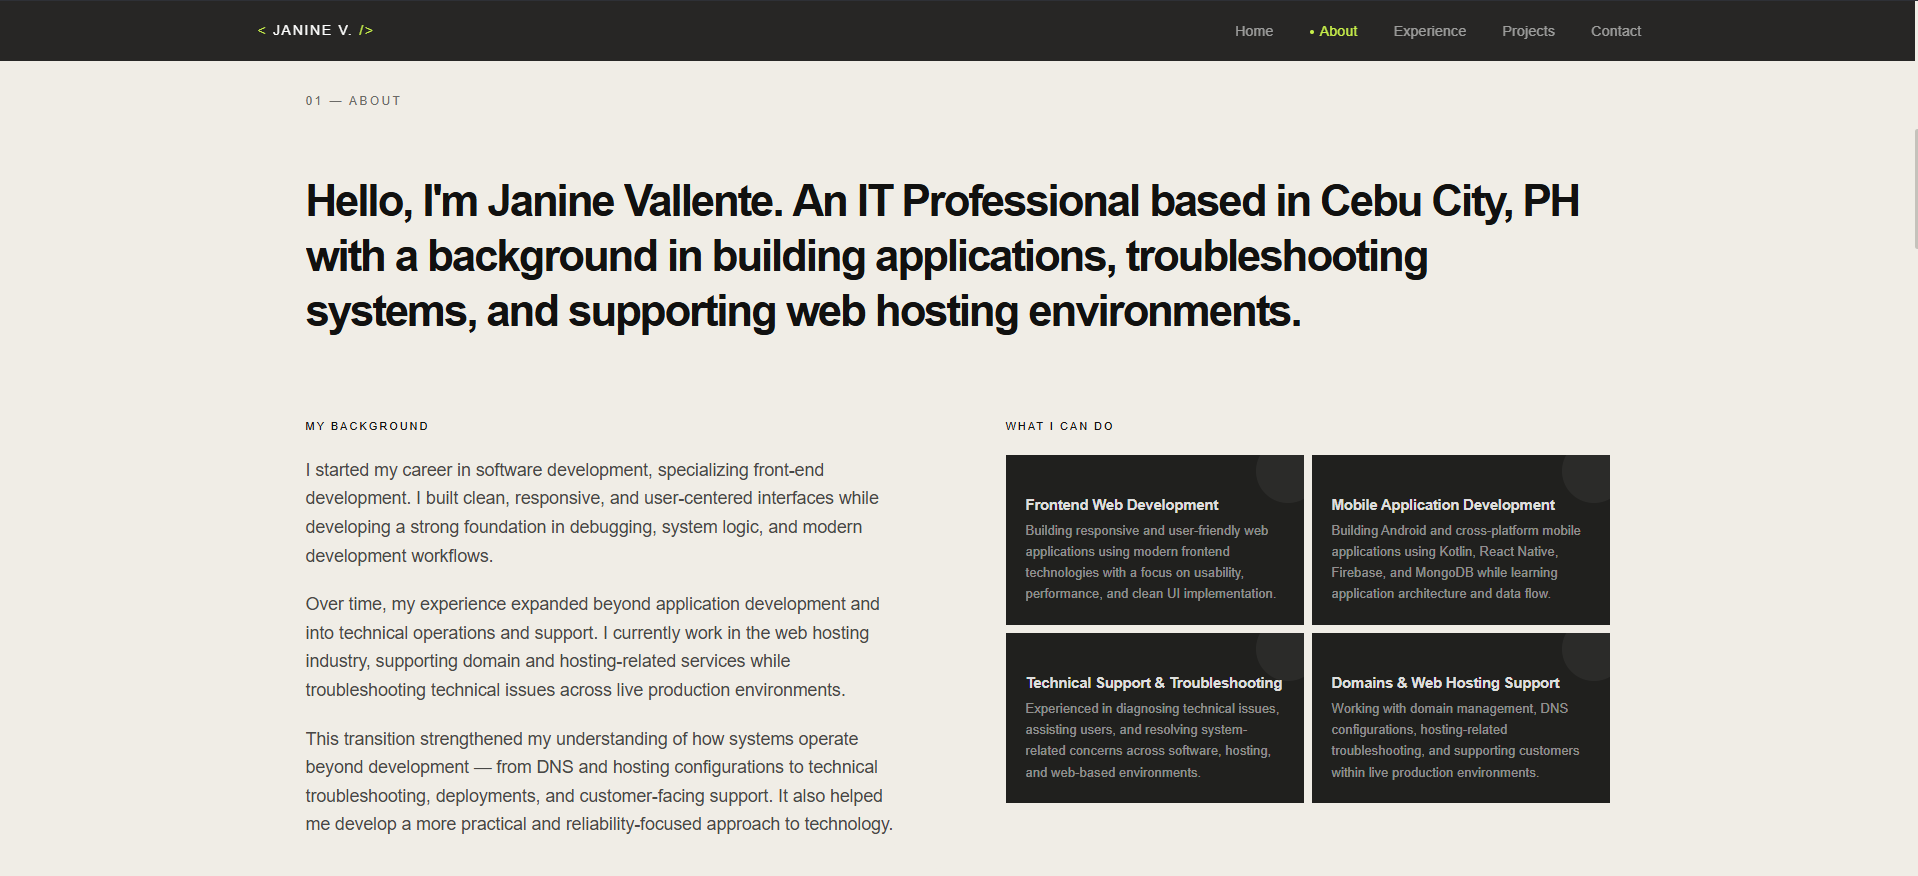
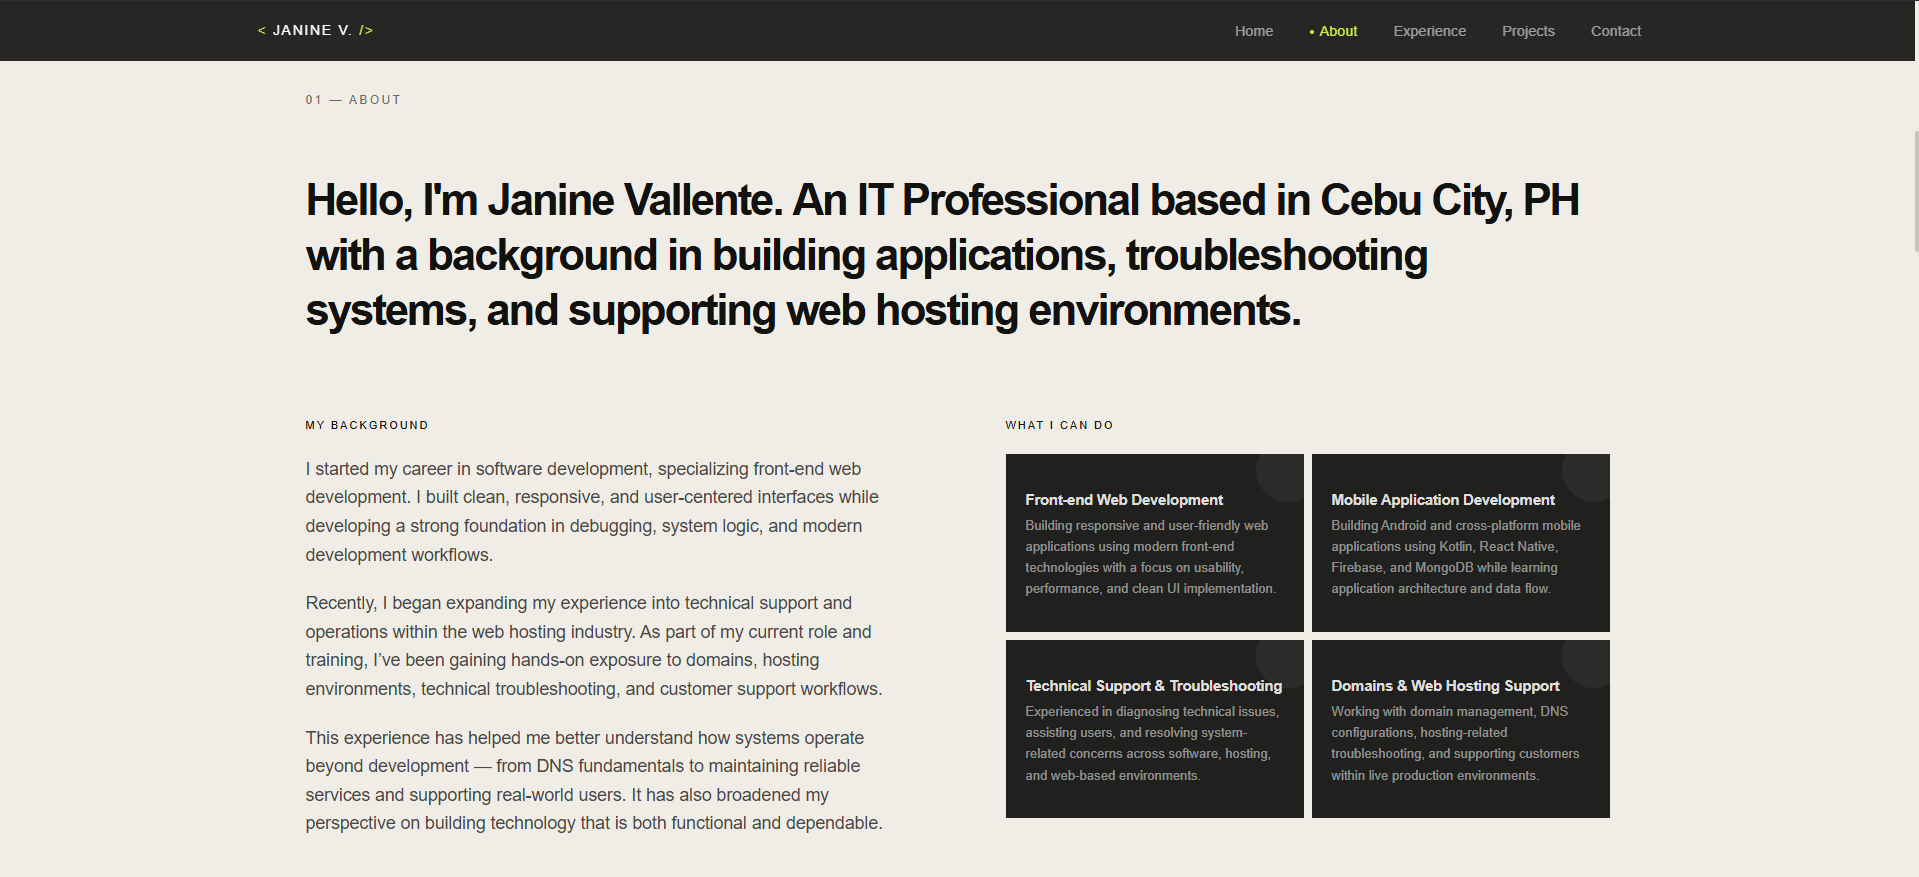
enh: updated portfolio details and improved consistency in terminology

diff --git a/src/lib/data.ts b/src/lib/data.ts
@@ -28,12 +28,12 @@ import ContibutorImg2 from "@/assets/images/contributor2.webp";
 export const portfolio = {
   name: "Janine Vallente",
   role: "Frontend Developer",
-  tagline: "I build interfaces people remember.",
+  tagline: "Portfolio Website",
   email: "[email redacted]",
   location: "Cebu City, Philippines",
   social: {
     linkedIn: "https://linkedin.com/in/janine-christine-vallente",
-    github: "https://github.com/janinevallente",
+    gitHub: "https://github.com/janinevallente",
   },
 
   skills: {
@@ -95,9 +95,9 @@ export const portfolio = {
     whatICanDo: [
       {
         id: "1",
-        area: "Frontend Web Development",
+        area: "Front-end Web Development",
         detail:
-          "Building responsive and user-friendly web applications using modern frontend technologies with a focus on usability, performance, and clean UI implementation.",
+          "Building responsive and user-friendly web applications using modern front-end technologies with a focus on usability, performance, and clean UI implementation.",
       },
       {
         id: "2",
@@ -138,7 +138,7 @@ export const portfolio = {
       title: "Byteflow",
       category: "Developer Toolkit",
       description:
-        "A growing collection of privacy-first tech utilities designed for developers and IT professionals. Byteflow includes image processing tools, color and accessibility utilities, Tailwind CSS helpers, and frontend productivity features — all running directly in the browser with no installs or unnecessary uploads. Built with React, Vite, and Tailwind CSS for a fast, lightweight, and seamless user experience, with future expansion into SEO, backend, and general-purpose development utilities.",
+        "A growing collection of privacy-first tech utilities designed for developers and IT professionals. Byteflow includes image processing tools, color and accessibility utilities, Tailwind CSS helpers, and front-end productivity features — all running directly in the browser with no installs or unnecessary uploads. Built with React, Vite, and Tailwind CSS for a fast, lightweight, and seamless user experience, with future expansion into SEO, backend, and general-purpose development utilities.",
       tags: ["React", "Vite", "Javascript", "Tailwind CSS", "Netlify"],
       year: "2026",
       images: [
@@ -221,7 +221,7 @@ export const portfolio = {
       title: "Portfolio Website",
       category: "Personal Portfolio",
       description:
-        "This responsive portfolio website showcases my work, experience, and frontend expertise. Built with Next.js, TypeScript, Tailwind CSS, and Framer Motion for smooth animations, excellent performance, and a clean, professional user experience.",
+        "This responsive portfolio website showcases my work, experience, and front-end expertise. Built with Next.js, TypeScript, Tailwind CSS, and Framer Motion for smooth animations, excellent performance, and a clean, professional user experience.",
       tags: [
         "Next.js",
         "TypeScript",
@@ -306,16 +306,18 @@ export const portfolio = {
       role: "Domain Support Associate",
       period: "Jun 2026 — Present",
       description: [
-        "Provide technical support for domain and web hosting-related services, assisting customers with account, DNS, and configuration concerns",
-        "Troubleshoot hosting, domain resolution, email, and website accessibility issues across live production environments",
-        "Assist customers through technical issue resolution while maintaining clear and professional communication",
-        "Work with internal tools and hosting platforms to manage configurations, diagnose service-related concerns, and support operational workflows",
+        "Currently training in domain support, assisting customers through email and phone with domain, account, and service-related inquiries",
+        "(Details to follow as role responsibilities mature)",
+        // "Developing hands-on experience in DNS troubleshooting, domain management, website accessibility concerns, and hosting-related support workflows",
+        // "Assist customers with domain configurations, DNS record updates, domain transfers, and account-related requests while maintaining clear and professional communication",
+        // "Support ticket handling, issue investigation, customer follow-ups, and escalation processes to help ensure timely and accurate service resolution",
       ],
       technologies: [
         "DNS",
         "Web Hosting",
         "Domain Management",
         "Technical Support",
+        "Customer Support",
         "Troubleshooting",
       ],
     },